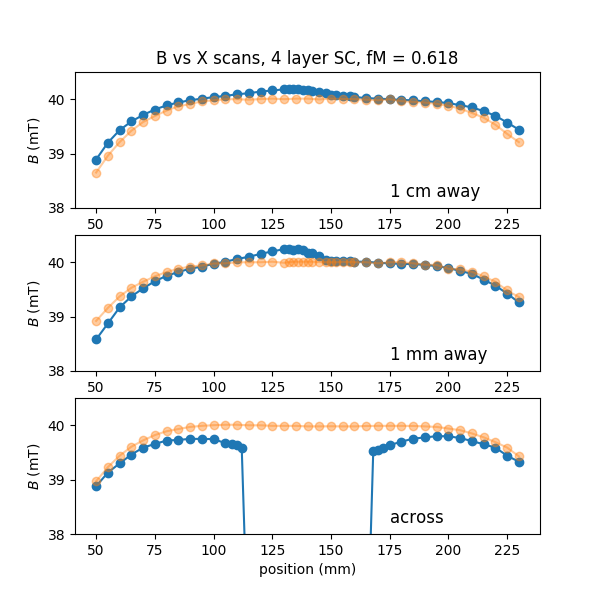
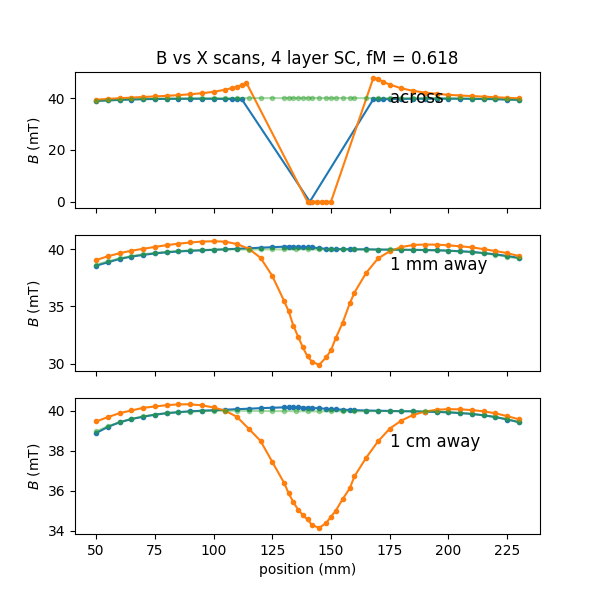
Add plots

diff --git a/pycloak/cloaking_pub17/cloak_sbu_subplots_1d.py b/pycloak/cloaking_pub17/cloak_sbu_subplots_1d.py
@@ -7,52 +7,107 @@ import matplotlib.pyplot as plt
 
 from matplotlib import cm
 
-
-
-
 # make plot 1
-fig, axs = plt.subplots(3,1,figsize=(6,6))
+fig, axs = plt.subplots(3,1,figsize=(6,6),sharex=True)
 
-# BvX, 1 mm away from edge @ z-center: DataFile_170213_194029.txt
-df_bvx_cloak_1 = pd.read_csv('data-calib/DATA_Gaussmeter/DataFile_170213_194029.csv')
-
-# BvX, 1 cm away from edge @ z-center: DataFile_170213_201438.txt
-df_bvx_cloak_2 = pd.read_csv('data-calib/DATA_Gaussmeter/DataFile_170213_201438.csv')
-
-# BvX along axis of cloak @ z-center: DataFile_170213_202411.txt
-df_bvx_cloak_3 = pd.read_csv('data-calib/DATA_Gaussmeter/DataFile_170213_202411.csv')
-
+# 4 layer SC + fm618 BvX along axis of cloak @ z-center: DataFile_170213_202411.txt
+# 4 layer SC + fm618 BvX, 1 mm away from edge @ z-center: DataFile_170213_194029.txt
+# 4 layer SC + fm618 BvX, 1 cm away from edge @ z-center: DataFile_170213_201438.txt
 # BvX reference along axis of cloak @ z-center: DataFile_170213_203450.txt
-df_bvx_ref_1 = pd.read_csv('data-calib/DATA_Gaussmeter/DataFile_170213_203450.csv')
-
 # BvX reference 1mm away from edge @ z-center: DataFile_170213_204446.txt
-df_bvx_ref_2 = pd.read_csv('data-calib/DATA_Gaussmeter/DataFile_170213_204446.csv')
-
 # BvX reference 1cm away from edge @ z-center: DataFile_170213_205815.txt
+# 4 layer SC only: BvsX along cloak axis at z-center (,y = 78mm, z = 71mm): DataFile_170215_162938.txt
+# 4 layer SC only: BvsX 1mm from surface at z-center (, y = 103mm, z = 71mm): DataFile_170215_163835.txt
+# 4 layer SC only: BvsX 33.1 mm from cloak center in z-center (y = 111mm, z = 71mm): DataFile_170215_165018.txt
+
+
+df_bvx_cloak_1 = pd.read_csv('data-calib/DATA_Gaussmeter/DataFile_170213_202411.csv')
+df_bvx_cloak_2 = pd.read_csv('data-calib/DATA_Gaussmeter/DataFile_170213_194029.csv')
+df_bvx_cloak_3 = pd.read_csv('data-calib/DATA_Gaussmeter/DataFile_170213_201438.csv')
+
+df_bvx_sc4l_1 = pd.read_csv('data-calib/DATA_Gaussmeter/DataFile_170215_162938.csv')
+df_bvx_sc4l_2 = pd.read_csv('data-calib/DATA_Gaussmeter/DataFile_170215_163835.csv')
+df_bvx_sc4l_3 = pd.read_csv('data-calib/DATA_Gaussmeter/DataFile_170215_165018.csv')
+
+df_bvx_ref_1 = pd.read_csv('data-calib/DATA_Gaussmeter/DataFile_170213_203450.csv')
+df_bvx_ref_2 = pd.read_csv('data-calib/DATA_Gaussmeter/DataFile_170213_204446.csv')
 df_bvx_ref_3 = pd.read_csv('data-calib/DATA_Gaussmeter/DataFile_170213_205815.csv')
 
 axs[0].set_title("B vs X scans, 4 layer SC, fM = 0.618")
-axs[0].plot( df_bvx_cloak_2['pos'], abs(df_bvx_cloak_2['B1']), marker='o', label='1 cm away') 
-axs[0].plot( df_bvx_ref_2['pos'], abs(df_bvx_ref_2['B1']), marker='o', label='1 cm away', alpha=0.4) 
+axs[0].plot( df_bvx_cloak_1['pos'], abs(df_bvx_cloak_1['B1']), marker='.', label='across center') 
+axs[0].plot( df_bvx_sc4l_1['pos'], abs(df_bvx_sc4l_1['B1']), marker='.', label='across center') 
+axs[0].plot( df_bvx_ref_1['pos'], abs(df_bvx_ref_1['B1']), marker='.', label='across center', alpha=0.4) 
 axs[0].set_ylabel("$B$ (mT)")
-axs[0].set_ylim((38,40.5))
-axs[0].text(175,38.2,'1 cm away',fontsize=12)
+#axs[0].set_ylim((38,40.5))
+axs[0].text(175,38.2,'across',fontsize=12)
 
-axs[1].plot( df_bvx_cloak_1['pos'], abs(df_bvx_cloak_1['B1']), marker='o', label='1 mm away') 
-axs[1].plot( df_bvx_ref_1['pos'], abs(df_bvx_ref_1['B1']), marker='o', label='1 mm away', alpha=0.4) 
+axs[1].plot( df_bvx_cloak_2['pos'], abs(df_bvx_cloak_2['B1']), marker='.', label='1 mm away') 
+axs[1].plot( df_bvx_sc4l_2['pos'], abs(df_bvx_sc4l_2['B1']), marker='.', label='across center') 
+axs[1].plot( df_bvx_ref_2['pos'], abs(df_bvx_ref_2['B1']), marker='.', label='1 mm away', alpha=0.4) 
 axs[1].set_ylabel("$B$ (mT)")
-axs[1].set_ylim((38,40.5))
+#axs[1].set_ylim((38,40.5))
 axs[1].text(175,38.2,'1 mm away',fontsize=12)
 
-axs[2].plot( df_bvx_cloak_3['pos'], abs(df_bvx_cloak_3['B1']), marker='o', label='across') 
-axs[2].plot( df_bvx_ref_3['pos'], abs(df_bvx_ref_3['B1']), marker='o', label='across', alpha=0.4) 
+axs[2].plot( df_bvx_cloak_3['pos'], abs(df_bvx_cloak_3['B1']), marker='.', label='1 cm away') 
+axs[2].plot( df_bvx_sc4l_3['pos'], abs(df_bvx_sc4l_3['B1']), marker='.', label='across center') 
+axs[2].plot( df_bvx_ref_3['pos'], abs(df_bvx_ref_3['B1']), marker='.', label='1 cm away', alpha=0.4) 
 axs[2].set_ylabel("$B$ (mT)")
 axs[2].set_xlabel("position (mm)")
-axs[2].set_ylim((38,40.5))
-axs[2].text(175,38.2,'across',fontsize=12)
-
-#plt1=axs[1].plot( data.loc[data['tdep']==False,'Bout'], data.loc[data['tdep']==False,'Bins'], marker='o')
-#axs[1].errorbar( data.loc[data['tdep'],'Bout'], data.loc[data['tdep'],'Bins'], yerr=data.loc[data['tdep'],'Bins_sdev'].values, marker='o', color=plt1[0].get_color(), mfc='white')
+#axs[2].set_ylim((38,40.5))
+axs[2].text(175,38.2,'1 cm away',fontsize=12)
 
 plt.savefig("plots/cloak_sbu_bvx_1.png")
+plt.show()
+###############################################
+
+# make plot 2
+fig, axs = plt.subplots(3,1,figsize=(6,6),sharex=True)
+
+# BvZ, through the cloak axis @ x,y-center: DataFile_170214_185331.txt
+# BvZ, 1mm away from edge @ y-center: DataFile_170214_190443.txt (x=118mm)
+# BvZ, 1mm away from edge @ x-center: DataFile_170214_191525.txt (y=105mm)
+# BvZ reference, through the cloak axis @ x,y-center: DataFile_170214_201515.txt
+# BvZ reference, 1mm away from edge @ y-center: DataFile_170214_202512.txt (x=118mm)
+# BvZ reference, 1mm away from edge @ x-center: DataFile_170214_203513.txt (y=105mm)
+# BvsZ SC only through center of cloak (y = 75mm, x = 142mm): DataFile_170215_181018.txt
+# BvsZ SC only 1 mm from cloak edge in z top (y = 103mm, x = 142mm): DataFile_170215_173242.txt
+# BvsZ SC only 1mm from cloak edge in x (y=75m, x=113mm): DataFile_170215_182257.txt
+
+df_bvz_cloak_1 = pd.read_csv('data-calib/DATA_Gaussmeter/DataFile_170214_185331.csv')
+df_bvz_cloak_2 = pd.read_csv('data-calib/DATA_Gaussmeter/DataFile_170214_190443.csv')
+df_bvz_cloak_3 = pd.read_csv('data-calib/DATA_Gaussmeter/DataFile_170214_191525.csv')
+
+df_bvz_sc4l_1 = pd.read_csv('data-calib/DATA_Gaussmeter/DataFile_170215_181018.csv')
+df_bvz_sc4l_2 = pd.read_csv('data-calib/DATA_Gaussmeter/DataFile_170215_173242.csv')
+df_bvz_sc4l_3 = pd.read_csv('data-calib/DATA_Gaussmeter/DataFile_170215_182257.csv')
+
+df_bvz_ref_1 = pd.read_csv('data-calib/DATA_Gaussmeter/DataFile_170214_201515.csv')
+df_bvz_ref_2 = pd.read_csv('data-calib/DATA_Gaussmeter/DataFile_170214_202512.csv')
+df_bvz_ref_3 = pd.read_csv('data-calib/DATA_Gaussmeter/DataFile_170214_203513.csv')
+
+axs[0].set_title("B vs Z scans, 4 layer SC, fM = 0.618")
+axs[0].plot( df_bvz_cloak_1['pos'], abs(df_bvz_cloak_1['B1']), marker='.', label='1 cm away') 
+axs[0].plot( df_bvz_sc4l_1['pos'], abs(df_bvz_sc4l_1['B1']), marker='.', label='1 cm away', alpha=0.4) 
+axs[0].plot( df_bvz_ref_1['pos'], abs(df_bvz_ref_1['B1']), marker='.', label='1 cm away', alpha=0.4) 
+axs[0].set_ylabel("$B$ (mT)")
+#axs[0].set_yscale("log", nonposy='clip')
+#axs[0].set_ylim((38,40.5))
+axs[0].text(-50,20,'x,y center',fontsize=12)
+
+axs[1].plot( df_bvz_cloak_2['pos'], abs(df_bvz_cloak_2['B1']), marker='.', label='1 mm away') 
+axs[1].plot( df_bvz_sc4l_2['pos'], abs(df_bvz_sc4l_2['B1']), marker='.', label='1 cm away', alpha=0.4) 
+axs[1].plot( df_bvz_ref_2['pos'], abs(df_bvz_ref_2['B1']), marker='.', label='1 mm away', alpha=0.4) 
+axs[1].set_ylabel("$B$ (mT)")
+#axs[1].set_ylim((36,44))
+axs[1].text(-50,42,'y center',fontsize=12)
+
+axs[2].plot( df_bvz_cloak_3['pos'], abs(df_bvz_cloak_3['B1']), marker='.', label='across') 
+axs[2].plot( df_bvz_sc4l_3['pos'], abs(df_bvz_sc4l_3['B1']), marker='.', label='1 cm away', alpha=0.4) 
+axs[2].plot( df_bvz_ref_3['pos'], abs(df_bvz_ref_3['B1']), marker='.', label='across', alpha=0.4) 
+axs[2].set_ylabel("$B$ (mT)")
+axs[2].set_xlabel("position (mm)")
+#axs[2].set_ylim((36,44))
+axs[2].text(-50,42,'x center',fontsize=12)
+
+plt.savefig("plots/cloak_sbu_bvz_1.png")
 plt.show()

diff --git a/pycloak/cloaking_pub17/cloak_sbu_1d.py b/pycloak/cloaking_pub17/cloak_sbu_1d.py
@@ -28,7 +28,7 @@ def comparescans( figname, figtitle, datafiles, datanames, legend=True ):
     for i, (dfile, dname) in enumerate( zip( datafiles, datanames ) ):
         print( dfile, dname )
         data = pd.read_csv(dfile, comment='#')
-        ax.plot( data['pos'], abs(data['B1']), marker='o', label=dname) #color='b'
+        ax.plot( data['pos'], abs(data['B1']), marker='.', label=dname) #color='b'
 
         # fill areas between curves and reference value
         #Bnominal = abs(data['B2']).mean()
@@ -41,6 +41,7 @@ def comparescans( figname, figtitle, datafiles, datanames, legend=True ):
     #ax.set_xlim(-12000, 12000)
     ax.set_ylabel('B (mT)')
     #ax.set_ylim(0,500)
+    ax.set_yscale("log", nonposy='clip')
 
     # add legend
     if ( legend ):
@@ -74,5 +75,44 @@ if __name__ == '__main__':
                   ["fm = 0.548",
                    "fm = 0.574",
                    "reference"])
+
+
+    # 45-layer SC and FM=0.618 ferromagnet, 40 mT
+    # BvX, 1mm from edge of cloak (y=101mm): DataFile_170214_205838.txt
+    # BvX, 1cm from edge of cloak (y=110mm): DataFile_170214_210939.txt
+
+    # 45-layer SC and FM=0.554 ferromagnet, 40 mT
+    #...
+
+    # 4-layer SC and FM=0.618 ferromagnet, 40 mT
+    # BvX, 1 mm away from edge @ z-center: DataFile_170213_194029.txt
+    # BvX, 1 cm away from edge @ z-center: DataFile_170213_201438.txt
+
+    # BvX reference 1mm away from edge @ z-center: DataFile_170213_204446.txt
+    # BvX reference 1cm away from edge @ z-center: DataFile_170213_205815.txt
+
+    # Compare SC4+FM618, SC45+FM618 at 40 mT
+    comparescans( "plots/cloak_sbu_compare_sc_1.png" ,
+                  "Cloaking at 40 mT (field measured 1 cm in front of prototype)",
+                  ["data-calib/DATA_Gaussmeter/DataFile_170213_201438.csv",
+                   "data-calib/DATA_Gaussmeter/DataFile_170214_210939.csv",
+#                   "data-calib/DATA_Gaussmeter/DataFile_170203_204341.csv",
+                   "data-calib/DATA_Gaussmeter/DataFile_170213_205815.csv"],
+                  [" 4-layer SC + fm618",
+                   "45-layer SC + fm618",
+#                   "fm = SC45 + fm574",
+                   "reference"])
+
+
+
+    # Compare SC4 + SC45 BvZ
+    comparescans( "plots/cloak_sbu_compare_sc_2.png" ,
+                  "Shielding at 40 mT (field measured in center of SC)",
+                  ["data-calib/DATA_Gaussmeter/DataFile_170215_181018.csv",
+                   "data-calib/DATA_Gaussmeter/DataFile_170215_184713.csv",
+                   "data-calib/DATA_Gaussmeter/DataFile_170214_201515.csv"],
+                  [" 4-layer SC",
+                   "45-layer SC",
+                   "no SC shield"])
 
                   
